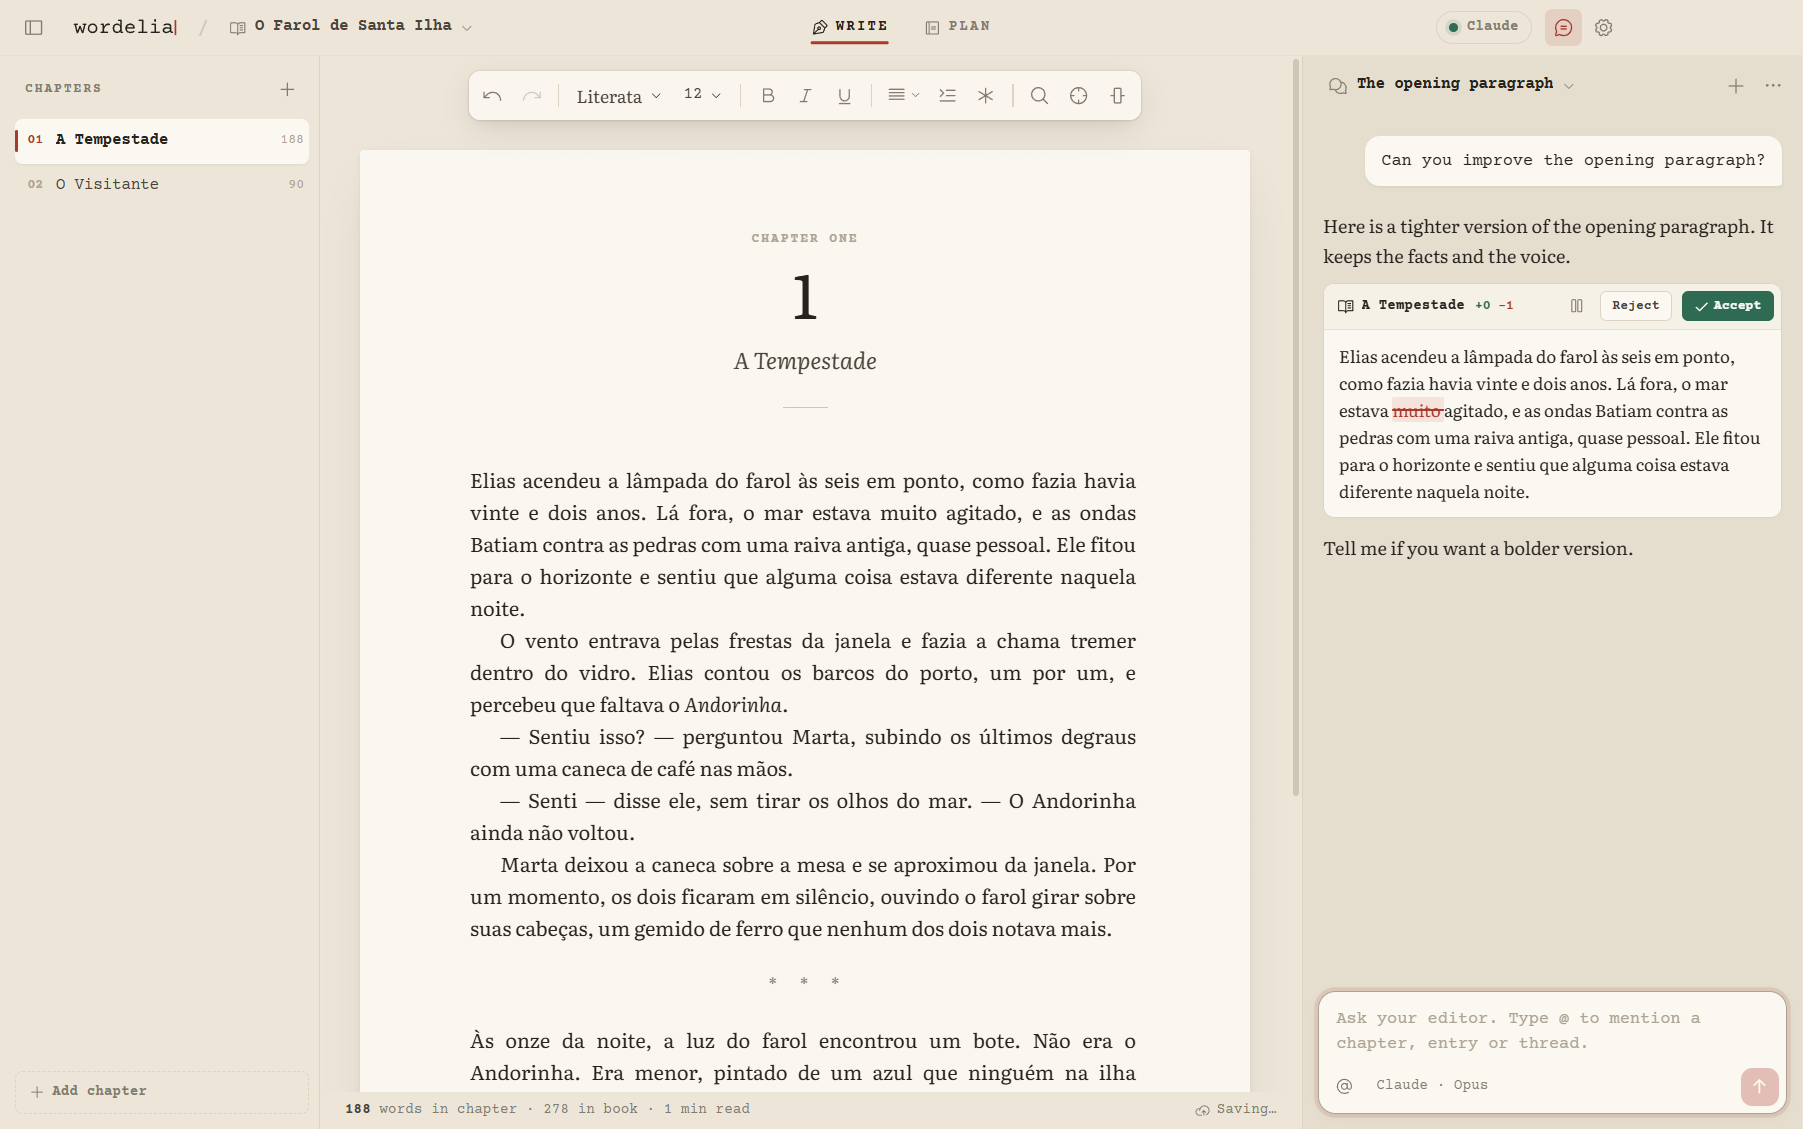
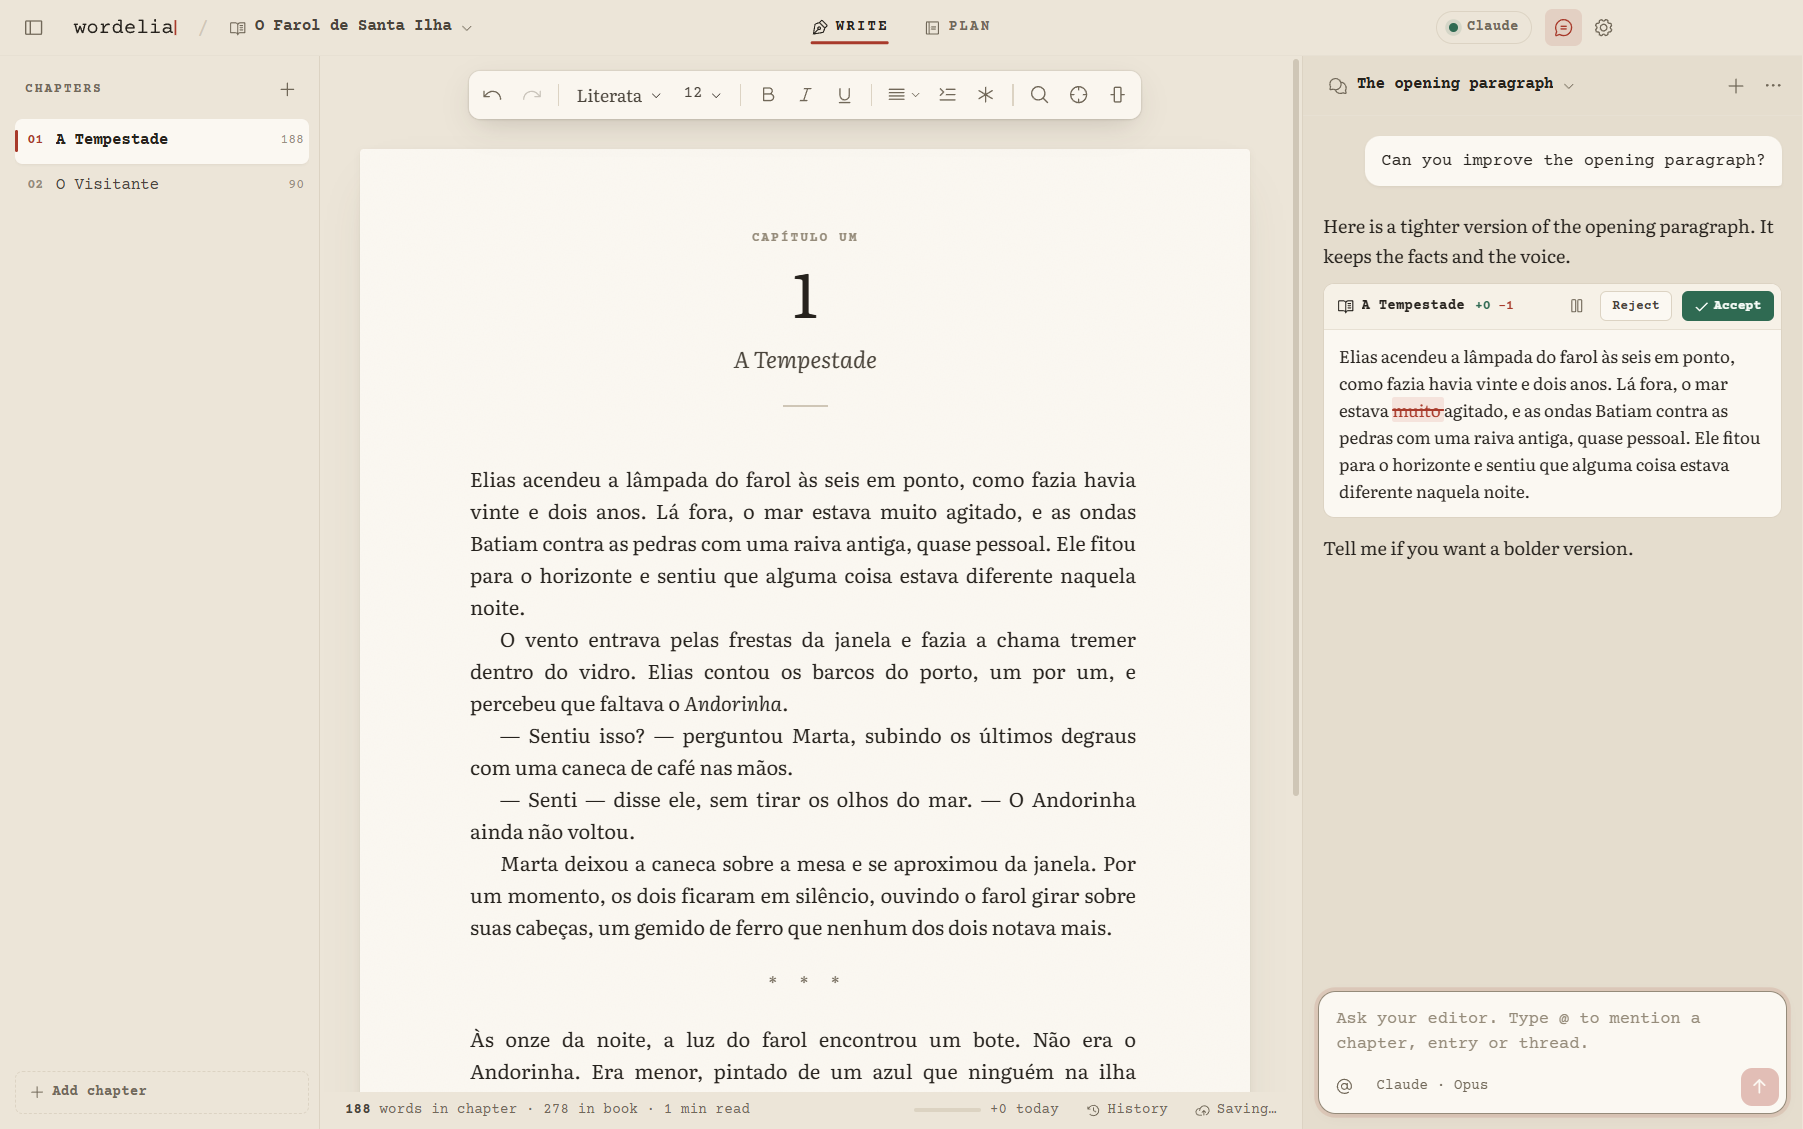
README: screenshots of history and PDF, e2e command

diff --git a/README.md b/README.md
@@ -30,6 +30,10 @@ Wordelia is a desktop writing app for novelists. It looks like a simple word pro
 |---|---|
 | ![Export](docs/images/export.png) | ![Dark](docs/images/dark.png) |
 
+| Version history | A page of the exported PDF |
+|---|---|
+| ![History](docs/images/history.png) | ![PDF page](docs/images/pdf-page.png) |
+
 ## Connect an AI
 
 Wordelia is free. It uses an AI that you already have:
@@ -75,6 +79,7 @@ npm run dev
 | `npm test` | Run the unit tests (Vitest). |
 | `npm run typecheck` | Check the types of all processes. |
 | `npm run shot -- book` | Build, start the app with a scripted AI, and save screenshots to `test-results/shots/`. |
+| `npm run e2e` | Build and run all end-to-end scenarios (scripted AI, temporary data folders). |
 | `npm run dist` | Make the Windows installer in `release/`. |
 
 Read `CLAUDE.md` and `docs/` before you change the code: `docs/SPEC.md` (product), `docs/ARCHITECTURE.md` (design), `docs/ROADMAP.md` (status) and `GLOSSARY.md` (terms).
